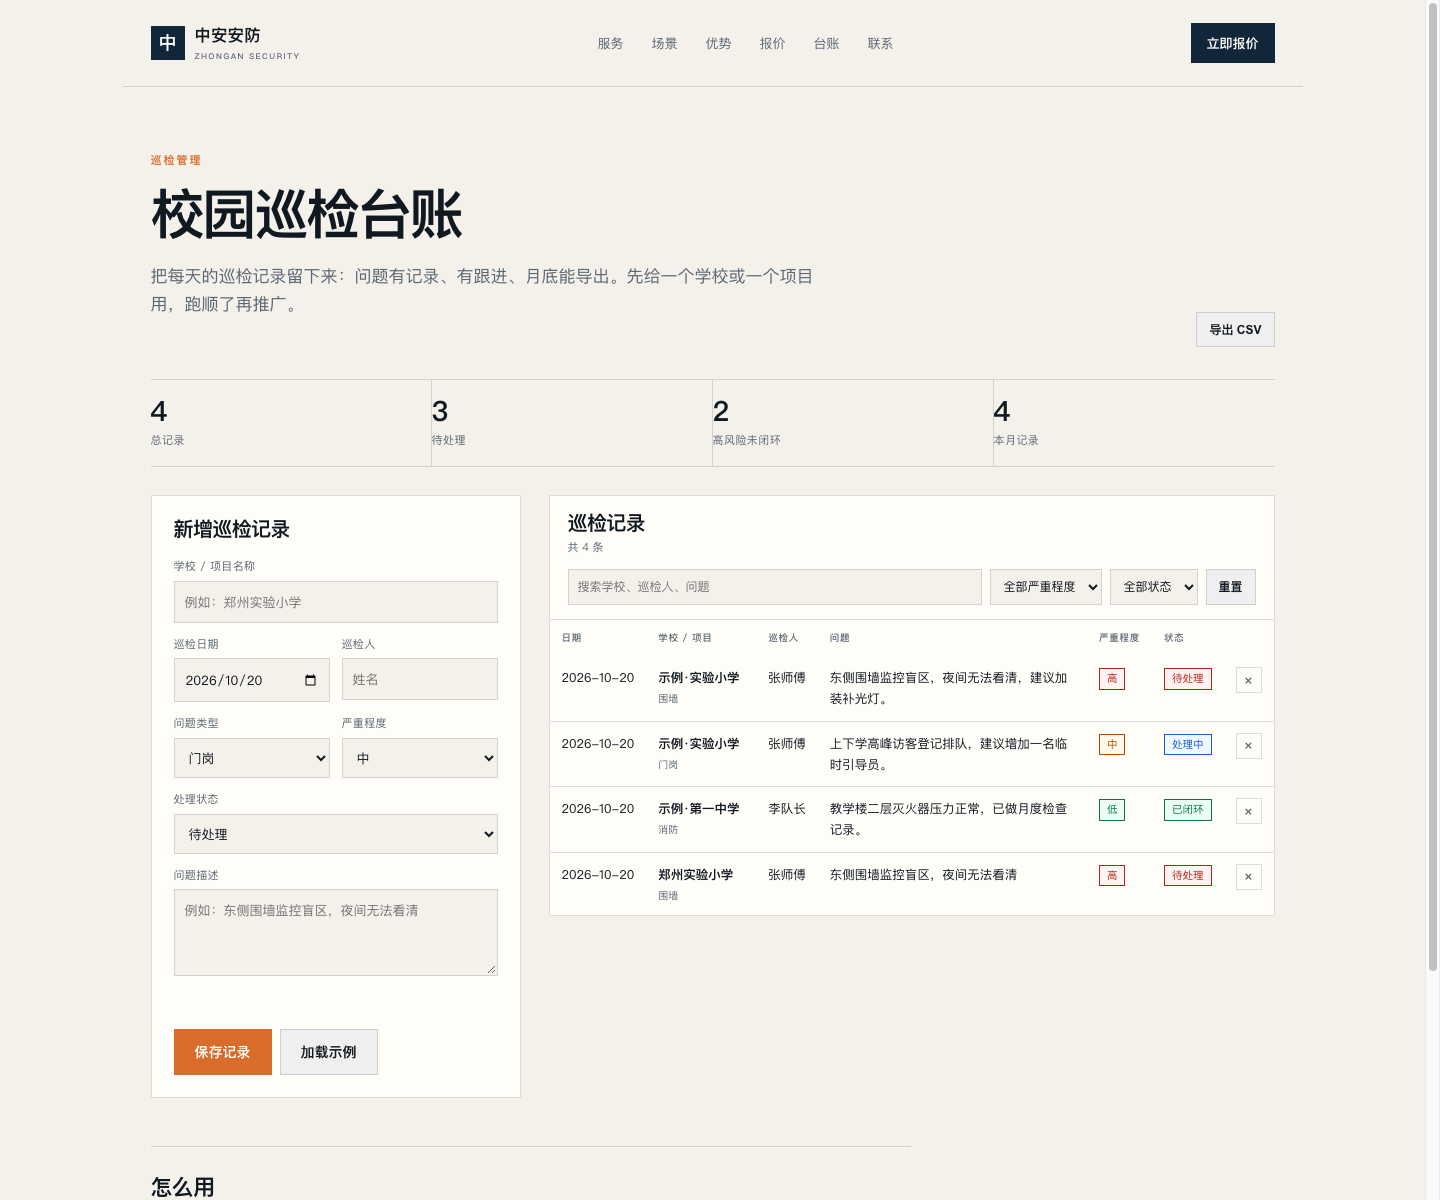
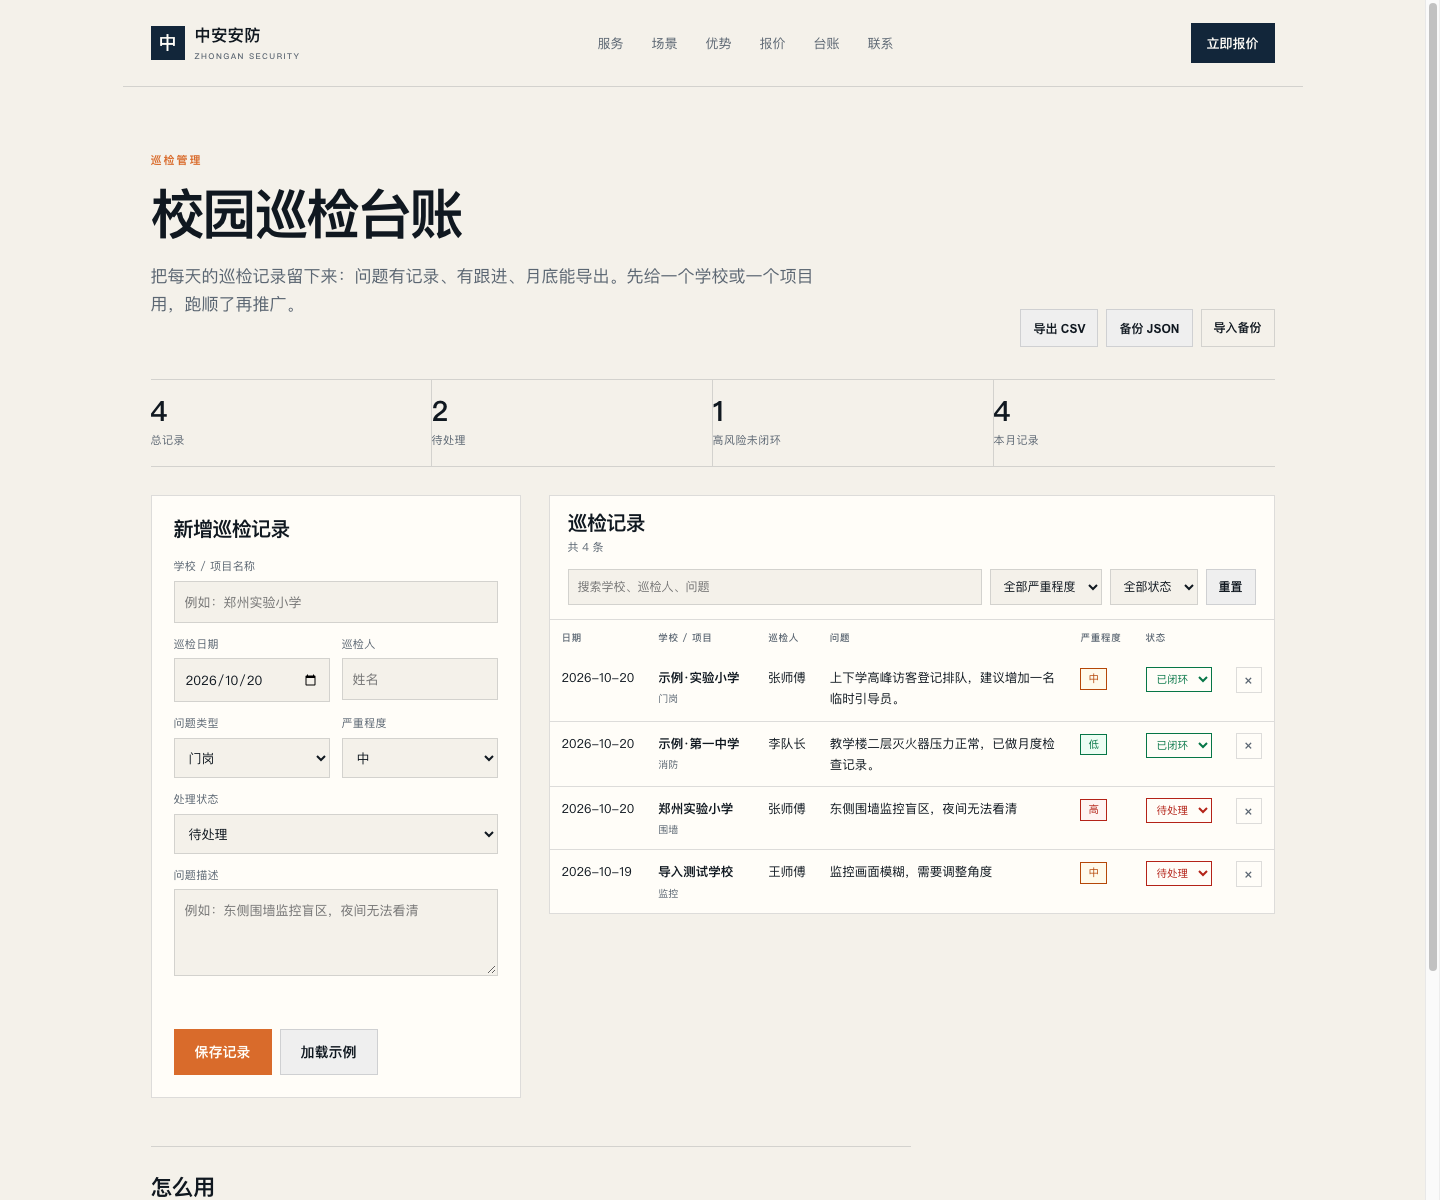
week 5: add backup restore and inline status

diff --git a/inspection.js b/inspection.js
@@ -15,6 +15,8 @@
   const search = document.getElementById('search');
   const filterSeverity = document.getElementById('filter-severity');
   const filterStatus = document.getElementById('filter-status');
+  const backup = document.getElementById('backup');
+  const restoreFile = document.getElementById('restore-file');
   const toast = document.createElement('div');
   toast.className = 'toast';
   document.body.appendChild(toast);
@@ -33,10 +35,35 @@
     try {
       const raw = localStorage.getItem(STORAGE_KEY);
       const data = raw ? JSON.parse(raw) : [];
-      return Array.isArray(data) ? data : [];
+      const list = Array.isArray(data) ? data : (data && Array.isArray(data.records) ? data.records : []);
+      return list.map(normalizeRecord).filter(Boolean);
     } catch (err) {
       return [];
     }
+  }
+
+  function normalizeRecord(raw) {
+    if (!raw || typeof raw !== 'object') return null;
+    const schoolValue = String(raw.school || '').trim();
+    const dateValue = String(raw.date || '').slice(0, 10);
+    const inspectorValue = String(raw.inspector || '').trim();
+    const descriptionValue = String(raw.description || '').trim();
+    if (!schoolValue || !inspectorValue || descriptionValue.length < 4) return null;
+    if (!/^\d{4}-\d{2}-\d{2}$/.test(dateValue)) return null;
+    const categories = ['门岗', '围墙', '监控', '消防', '照明', '其他'];
+    const severities = ['低', '中', '高'];
+    const statuses = ['待处理', '处理中', '已闭环'];
+    return {
+      id: raw.id ? String(raw.id) : uid(),
+      school: schoolValue,
+      date: dateValue,
+      inspector: inspectorValue,
+      category: categories.includes(raw.category) ? raw.category : '其他',
+      severity: severities.includes(raw.severity) ? raw.severity : '中',
+      status: statuses.includes(raw.status) ? raw.status : '待处理',
+      description: descriptionValue,
+      createdAt: raw.createdAt ? String(raw.createdAt) : new Date().toISOString()
+    };
   }
 
   function saveRecords() {
@@ -84,6 +111,13 @@
     if (value === '待处理') return 'status-open';
     if (value === '处理中') return 'status-progress';
     return 'status-closed';
+  }
+
+  function statusSelect(record) {
+    const options = ['待处理', '处理中', '已闭环'].map(function (value) {
+      return '<option value="' + value + '"' + (value === record.status ? ' selected' : '') + '>' + value + '</option>';
+    }).join('');
+    return '<select class="status-select ' + statusClass(record.status) + '" data-id="' + escapeHtml(record.id) + '" aria-label="修改状态">' + options + '</select>';
   }
 
   function filteredRecords() {
@@ -135,7 +169,7 @@
         '<td data-label="巡检人">' + escapeHtml(record.inspector) + '</td>' +
         '<td data-label="问题" class="record-desc-cell"><span class="record-desc">' + escapeHtml(record.description) + '</span></td>' +
         '<td data-label="严重程度"><span class="badge ' + severityClass(record.severity) + '">' + escapeHtml(record.severity) + '</span></td>' +
-        '<td data-label="状态"><span class="badge ' + statusClass(record.status) + '">' + escapeHtml(record.status) + '</span></td>' +
+        '<td data-label="状态">' + statusSelect(record) + '</td>' +
         '<td class="action-cell"><button class="delete-btn" type="button" data-id="' + escapeHtml(record.id) + '" aria-label="删除这条记录">×</button></td>';
       recordsBody.appendChild(tr);
     });
@@ -198,6 +232,20 @@
     }
   });
 
+  recordsBody.addEventListener('change', function (event) {
+    const select = event.target.closest('.status-select');
+    if (!select) return;
+    const id = select.getAttribute('data-id');
+    const record = records.find(function (item) { return item.id === id; });
+    if (!record) return;
+    record.status = select.value;
+    if (saveRecords()) {
+      updateStats();
+      render();
+      showToast('状态已更新');
+    }
+  });
+
   search.addEventListener('input', render);
   filterSeverity.addEventListener('change', render);
   filterStatus.addEventListener('change', render);
@@ -247,6 +295,66 @@
       refresh();
       showToast('已加载 3 条示例记录');
     }
+  });
+
+  function downloadFile(content, filename, mimeType) {
+    const blob = new Blob([content], { type: mimeType });
+    const url = URL.createObjectURL(blob);
+    const link = document.createElement('a');
+    link.href = url;
+    link.download = filename;
+    document.body.appendChild(link);
+    link.click();
+    document.body.removeChild(link);
+    URL.revokeObjectURL(url);
+  }
+
+  backup.addEventListener('click', function () {
+    if (!records.length) {
+      showToast('没有可备份的记录');
+      return;
+    }
+    const payload = {
+      version: 1,
+      exportedAt: new Date().toISOString(),
+      records: records
+    };
+    downloadFile(JSON.stringify(payload, null, 2), '巡检台账备份-' + todayValue() + '.json', 'application/json;charset=utf-8');
+    showToast('备份文件已导出');
+  });
+
+  restoreFile.addEventListener('change', function (event) {
+    const file = event.target.files && event.target.files[0];
+    if (!file) return;
+    const reader = new FileReader();
+    reader.onload = function () {
+      try {
+        const data = JSON.parse(String(reader.result || ''));
+        const incoming = Array.isArray(data) ? data : (data && Array.isArray(data.records) ? data.records : []);
+        const normalized = incoming.map(normalizeRecord).filter(Boolean);
+        if (!normalized.length) {
+          showToast('导入失败：没有有效记录');
+          return;
+        }
+        const existing = new Set(records.map(function (record) { return record.id; }));
+        const additions = normalized.filter(function (record) { return !existing.has(record.id); });
+        if (!additions.length) {
+          showToast('没有新增记录（可能已导入过）');
+          return;
+        }
+        if (!window.confirm('导入 ' + additions.length + ' 条记录？将与现有记录合并。')) return;
+        records = records.concat(additions);
+        if (saveRecords()) {
+          refresh();
+          showToast('已导入 ' + additions.length + ' 条记录');
+        }
+      } catch (err) {
+        showToast('导入失败：文件不是有效的 JSON');
+      } finally {
+        restoreFile.value = '';
+      }
+    };
+    reader.readAsText(file, 'utf-8');
   });
 
   document.getElementById('export').addEventListener('click', function () {

diff --git a/inspection.css b/inspection.css
@@ -2,7 +2,8 @@
 .ledger-head { display: flex; justify-content: space-between; align-items: flex-end; gap: 24px; margin-bottom: 32px; }
 .ledger-head h1 { font-size: clamp(34px, 4.6vw, 54px); letter-spacing: -.04em; }
 .ledger-head .lede { margin-top: 16px; max-width: 680px; }
-.ledger-actions { flex: none; }
+.ledger-actions { flex: none; display: flex; gap: 8px; flex-wrap: wrap; }
+.file-btn { cursor: pointer; }
 .btn.small { padding: 8px 12px; font-size: 12px; }
 
 .stats { display: grid; grid-template-columns: repeat(4, 1fr); border-top: 1px solid var(--line); border-bottom: 1px solid var(--line); margin-bottom: 28px; }
@@ -60,6 +61,8 @@
 .status-open { color: #b42318; background: #fef3f2; }
 .status-progress { color: #175cd3; background: #eff8ff; }
 .status-closed { color: #067647; background: #ecfdf3; }
+.status-select { border: 1px solid currentColor; background: transparent; padding: 3px 6px; font: inherit; font-size: 10.5px; line-height: 1.5; cursor: pointer; }
+.status-select:focus { outline: 2px solid var(--accent); outline-offset: 1px; }
 .delete-btn { border: 1px solid var(--line); background: transparent; color: var(--muted); width: 26px; height: 26px; cursor: pointer; font-size: 15px; line-height: 1; }
 .delete-btn:hover { border-color: #b42318; color: #b42318; }
 .empty { padding: 46px 20px; text-align: center; color: var(--muted); }

diff --git a/inspection.html b/inspection.html
@@ -33,6 +33,10 @@
       </div>
       <div class="ledger-actions">
         <button id="export" class="btn ghost small" type="button">导出 CSV</button>
+        <button id="backup" class="btn ghost small" type="button">备份 JSON</button>
+        <label class="btn ghost small file-btn">导入备份
+          <input id="restore-file" type="file" accept=".json,application/json" hidden>
+        </label>
       </div>
     </section>
 
@@ -152,7 +156,7 @@
         <li>每次巡检完，当场用手机或电脑填一条，别等回办公室补。</li>
         <li>“高风险”要当天处理；处理后把状态改成“已闭环”。</li>
         <li>月底点“导出 CSV”，用 Excel 打开，做月度汇总。</li>
-        <li>这一版数据只存在当前浏览器里；换电脑或清缓存会丢，第 5 周会换成数据库。</li>
+        <li>这一版数据只存在当前浏览器里；换电脑或清缓存会丢。可以用上面的「备份 JSON / 导入备份」手动迁移，第 6 周会换成数据库。</li>
       </ol>
     </section>
   </main>

diff --git a/第5周操作卡.md b/第5周操作卡.md
@@ -1,0 +1,61 @@
+# 第 5 周：Git 与调试，台账 v2
+
+## 本周做了什么
+
+这一周没有接 Supabase，先把台账做成更可靠的 v2：
+
+- 状态可以直接在表格里改：待处理 → 处理中 → 已闭环
+- 新增「备份 JSON」：把所有记录下载成一个文件
+- 新增「导入备份」：换电脑或清缓存后，可以把记录恢复回来
+- 导入时会做数据体检：缺字段、日期不对的记录会被跳过；重复记录不会重复导入
+- 每次改动都通过 Git 提交，历史可回滚
+
+Supabase 放到第 6 周，因为它需要你注册账号、拿 API key、建表；一次做太多容易乱。
+
+## Git 三件事
+
+打开 GitHub Desktop，选中 `week-01` 仓库：
+
+1. **看历史**：点 `History`，能看到每一次提交和改了什么。
+2. **提交**：改完文件后，左下角写 Summary，点 `Commit to main`。
+3. **回滚**：在 History 里右键某次提交 → `Revert changes in commit`，可以把那次改动撤掉。
+
+本周你只需要会这三个动作。不要直接在 GitHub 网页上改代码。
+
+## 三个调试测试
+
+### 测试 1：状态更新
+
+1. 打开台账页
+2. 把一条“待处理”改成“已闭环”
+3. 上面“待处理”数字应该减 1
+4. 刷新页面，状态还在
+
+### 测试 2：备份 + 导入
+
+1. 点「备份 JSON」，下载一个 `.json` 文件
+2. 再点一次「导入备份」，选刚才的文件
+3. 应该提示“没有新增记录（可能已导入过）”
+4. 不应该出现重复记录
+
+### 测试 3：坏文件
+
+1. 用记事本新建一个 `bad.json`，内容写 `{ this is not json }`
+2. 点「导入备份」，选这个文件
+3. 应该提示“导入失败：文件不是有效的 JSON”
+4. 页面不能崩，原有记录不能丢
+
+## 本周验收
+
+- [ ] 能在表格里改状态，统计数字跟着变
+- [ ] 刷新后状态还在
+- [ ] 备份 JSON 能下载
+- [ ] 导入同一份备份不会重复
+- [ ] 导入坏文件有错误提示，页面不崩
+- [ ] GitHub Desktop 里能看到本周的提交历史
+
+## 复盘
+
+1. 你们现在最怕数据丢，还是最怕多人不能共用？
+2. 一条记录里，哪个字段最容易被漏填？
+3. 下周接数据库时，最想先解决哪个问题？
